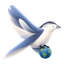
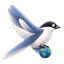
fix(brand): 로고 오려내기가 새의 검은 두건을 날리던 것을 고친다
사용자 신고 — "머리가 하얗게 날라간거같은데". 맞다. 어제 올린 지구본 마크는
**머리가 흰색으로 파인 채** 나가 있었다. 눈과 부리도 함께 사라졌다.

**원인.** 검은 바탕을 걷어낼 때 가장자리에서 물을 채워 "바깥 검정"만 지우는데,
그 기준값을 70 으로 잡아 두었다. 그러면 채우기가 경계 그라데이션을 타고
**두건 속까지 걸어 들어간다.** 두건이 "바깥"으로 판정되면 알파 되돌리기
(rgb = 관측값 / alpha)가 어두운 픽셀을 밝은 쪽으로 부풀려 회백색이 된다.
앞선 그림들은 두건이 배경과 떨어져 있어 이 자리를 비켜 갔을 뿐이다 — 이번
그림은 두건이 검은 배경에 바로 맞닿아 있다. 실제로 나머지 네 마크(브랜드·
종이·책·바닥 마크)를 확인해 보니 전부 멀쩡하고 이것 하나만 깨져 있었다.

**고치면서 두 번 더 틀렸고 둘 다 픽셀을 재서 잡았다.**

- 기준값만 낮추고 "안쪽은 불투명으로 지킨다"를 넣었더니 **날개 사이로 비치는
  갇힌 배경 구멍**까지 불투명해져 검은 잔점이 스물두 개 생겼다.
- 채우기를 버리고 단순 문턱으로 바꾸니 잔점은 사라졌지만 **경계가 톱니로
  깨졌다.** 알파를 밝기에 비례시킨 것이 원인이다 — 반쯤 덮인 크림색 픽셀은
  L=150 인데 그 식은 "불투명한 회색"으로 읽는다. 알파는 밝기가 아니라
  **덮인 넓이**다.

지금은 알파를 실루엣을 흐려서 구한다. 그러면 밝은 크림 가장자리든 어두운
두건 가장자리든 한 규칙으로 맞는다. 실루엣은 한 겹 깎는다 — 문턱이 그라데이션의
바깥 끝을 잡아 경계가 부풀고, 그대로 두면 흰 바탕에서 어두운 테두리가 돈다
(둘레 최소밝기 7 → 38 로 재서 고른 값이다).

기준값은 눈대중이 아니라 histogram 에서 잡는다 — 이 그림은 배경 덩어리가
L=2~5 에 119만 px 이고 6부터 완만한 꼬리라 T=5 로 잡힌다.

검증: 검은 바탕에 도로 얹으면 원본과의 오차가 1.91/255 로 사실상 그대로다.
흰 바탕·어두운 바탕과 실제 쓰이는 크기(160·44·32px)로 눈으로 확인했다 —
두건·눈·부리·발이 모두 살아 있고 잔점과 톱니가 없다. 날개 색은 안 건드렸다
(채도 0.392, 배포본 0.395 — 오려내기만 고쳤다는 뜻이다).

빌드 스탬프 20260912b — 로고 파일이 바뀌었으므로 올려야 옛 사본을 안 쓴다.

Claude-Session: https://claude.ai/code/session_01C5hwXkP7FNVyWqAUhqie3H

diff --git a/index.html b/index.html
@@ -13,10 +13,10 @@
 <link rel="stylesheet" crossorigin href="https://cdn.jsdelivr.net/gh/orioncactus/pretendard@v1.3.9/dist/web/static/pretendard.min.css">
 <link href="https://fonts.googleapis.com/css2?family=Space+Grotesk:wght@400;500;600;700&display=swap" rel="stylesheet">
 </noscript>
-<link rel="icon" href="img/magpie-64.png?v=20260912a">
-<link rel="apple-touch-icon" href="img/magpie-192.png?v=20260912a">
+<link rel="icon" href="img/magpie-64.png?v=20260912b">
+<link rel="apple-touch-icon" href="img/magpie-192.png?v=20260912b">
 <script>(function(){try{var m=localStorage.getItem('seji_theme')||(matchMedia('(prefers-color-scheme: light)').matches?'light':'dark');document.documentElement.dataset.theme=m;}catch(e){}})();</script>
-<link rel="stylesheet" href="css/main.css?v=20260912a">
+<link rel="stylesheet" href="css/main.css?v=20260912b">
 </head>
 <body>
 <button id="theme-toggle" type="button" title="화면 밝기 전환" onclick="toggleTheme()"></button>
@@ -28,7 +28,7 @@
       <path d="M-10 150 C 90 150 130 40 260 40 C 390 40 430 150 530 150"/>
     </svg>
     <div class="g3-lockup" aria-label="Geogl3">
-      <img class="g3-bird" src="img/magpie-512.png?v=20260912a" alt="" width="512" height="512" decoding="async"/>
+      <img class="g3-bird" src="img/magpie-512.png?v=20260912b" alt="" width="512" height="512" decoding="async"/>
       <div class="g3-logo">Geogl3</div>
     </div>
     <p class="ld-tag">See the world from above</p>
@@ -46,7 +46,7 @@
        예전에는 카드 안 "로그인하면…" 줄 **위**에 끼어 있어서, 세 사이트를 나란히
        놓으면 지오글만 브랜드가 본문 한복판에 뜬 것처럼 보였다. -->
   <footer class="ld-foot">
-    <a class="ld-brand" href="https://nepica.vercel.app" target="_blank" rel="noreferrer" aria-label="NEPICA 브랜드 사이트로 이동"><img src="img/nepica-64.png?v=20260912a" alt="" width="22" height="22" decoding="async"/><span>NEPICA</span></a>
+    <a class="ld-brand" href="https://nepica.vercel.app" target="_blank" rel="noreferrer" aria-label="NEPICA 브랜드 사이트로 이동"><img src="img/nepica-64.png?v=20260912b" alt="" width="22" height="22" decoding="async"/><span>NEPICA</span></a>
   </footer>
 
   <!-- 세부 옵션 시트 -->
@@ -4950,25 +4950,25 @@
     <button class="reb secondary" onclick="runPendingReset();document.getElementById('rbq-end').classList.remove('on')">다시 시작</button>
   </div>
 </div>
-<script src="js/data.js?v=20260912a"></script>
-<script src="js/rivers-data.js?v=20260912a"></script>
-<script src="js/climate-data.js?v=20260912a"></script>
-<script src="js/climate-map-data.js?v=20260912a"></script>
-<script src="js/app.js?v=20260912a"></script>
-<script src="js/climate.js?v=20260912a"></script>
-<script src="js/dict-data.js?v=20260912a"></script>
-<script src="js/flag-colors-data.js?v=20260912a"></script>
-<script src="js/flag-bg-data.js?v=20260912a"></script>
-<script src="js/wiki-style.js?v=20260912a"></script>
-<script src="js/dict.js?v=20260912a"></script>
-<script src="js/suteuk-data.js?v=20260912a"></script>
-<script src="js/suteuk.js?v=20260912a"></script>
-<script src="js/stat-data.js?v=20260912a"></script>
-<script src="js/stat.js?v=20260912a"></script>
+<script src="js/data.js?v=20260912b"></script>
+<script src="js/rivers-data.js?v=20260912b"></script>
+<script src="js/climate-data.js?v=20260912b"></script>
+<script src="js/climate-map-data.js?v=20260912b"></script>
+<script src="js/app.js?v=20260912b"></script>
+<script src="js/climate.js?v=20260912b"></script>
+<script src="js/dict-data.js?v=20260912b"></script>
+<script src="js/flag-colors-data.js?v=20260912b"></script>
+<script src="js/flag-bg-data.js?v=20260912b"></script>
+<script src="js/wiki-style.js?v=20260912b"></script>
+<script src="js/dict.js?v=20260912b"></script>
+<script src="js/suteuk-data.js?v=20260912b"></script>
+<script src="js/suteuk.js?v=20260912b"></script>
+<script src="js/stat-data.js?v=20260912b"></script>
+<script src="js/stat.js?v=20260912b"></script>
 <!-- ════════════════════════════════════════════════════════════
      계정 · 소셜로그인 · 랭킹 (Supabase) — 빌드/명령어 불필요, 이 파일만으로 동작
      ▼▼▼ 여기 두 줄만 본인 Supabase 값으로 바꾸면 끝 ▼▼▼ -->
-<script type="module" src="js/account.js?v=20260912a"></script>
+<script type="module" src="js/account.js?v=20260912b"></script>
 
 </body>
 </html>
